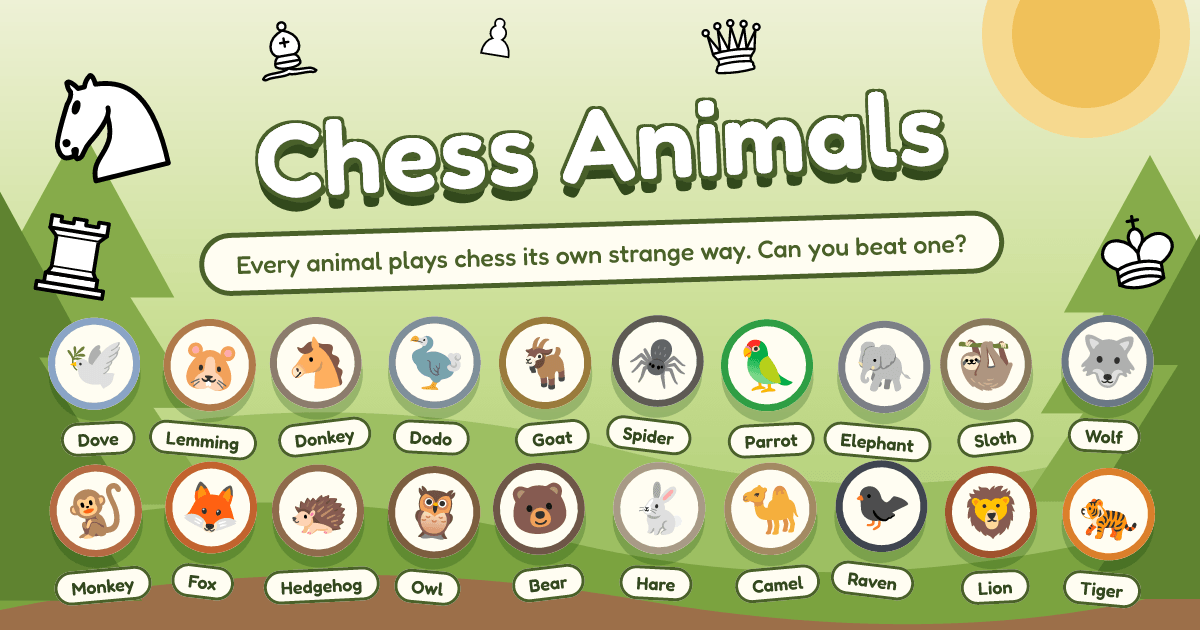
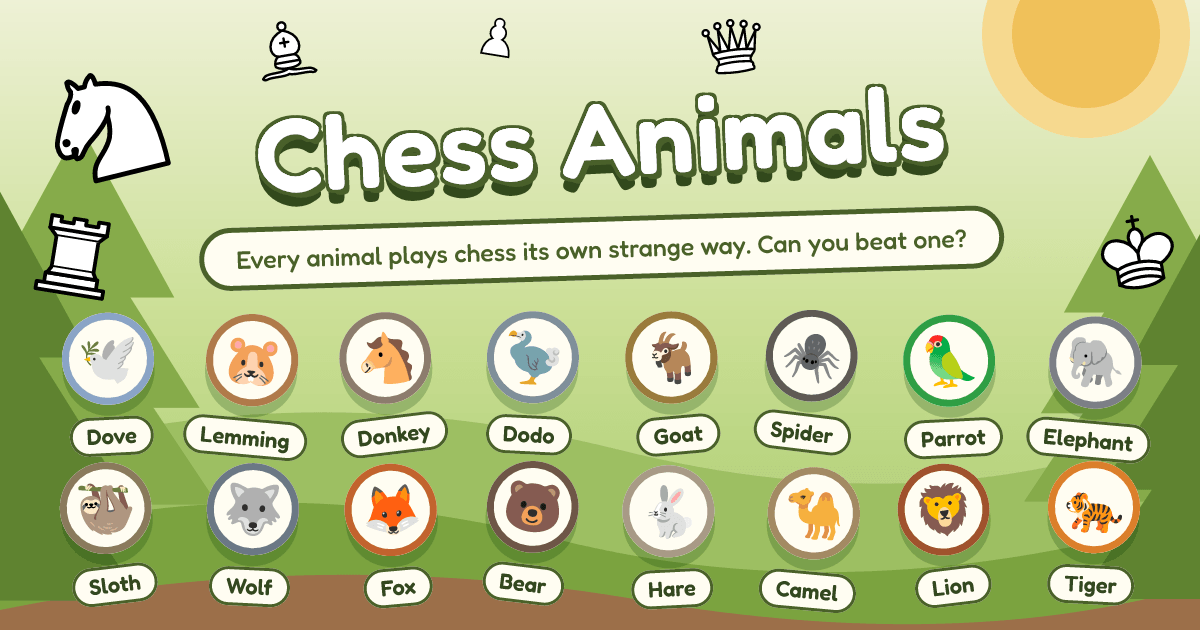
roster: drop the monkey, owl, raven and hedgehog

diff --git a/src/modules/bots/roster/index.ts b/src/modules/bots/roster/index.ts
@@ -13,15 +13,11 @@ import { GHOST } from "./ghost";
 import { GOAT } from "./goat";
 import { GOBLIN } from "./goblin";
 import { HARE } from "./hare";
-import { HEDGEHOG } from "./hedgehog";
 import { IMP } from "./imp";
 import { LEMMING } from "./lemming";
 import { LION } from "./lion";
-import { MONKEY } from "./monkey";
 import { OGRE } from "./ogre";
-import { OWL } from "./owl";
 import { PARROT } from "./parrot";
-import { RAVEN } from "./raven";
 import { ROBOT } from "./robot";
 import { SLOTH } from "./sloth";
 import { SPIDER } from "./spider";
@@ -41,37 +37,27 @@ import { ZOMBIE } from "./zombie";
 // enemy) lands just above the Donkey instead: a king in the open is real pressure. All three still
 // lose to every animal with an actual positional idea.
 //
-// The calibration animals read no personality feature — they are the scale, not filler. The
-// Donkey moves at random; the Monkey is plain material at depth 2, the Owl the same at depth 3.
-// Each ply is worth a landslide: the Owl beats the Monkey ~19-in-20 and finished ahead of every
-// one-feature animal, so a single heuristic at depth 2 does not buy what a ply does.
+// Every animal has an idea. Bare material with nothing written over it — the Monkey, the Owl and
+// the Raven, at three searches — rated respectably and played like nobody, so it left the roster
+// and lives on as the lab's baseline.
 //
-// The Raven is the calibration line's answer to "and what is seeing a trade through worth?" —
-// the Owl's depth 3 with `quiescence` on, no idea otherwise. It is the strongest bot on the
-// roster by a distance, beating the Hare ~9-in-10: on a material-only search the one blunder that
-// matters is grabbing a piece that is recaptured, and resolving the captures past the leaf is
-// worth more than a fourth ply or any pair of positional weights.
-//
-// The one-idea animals are a tour of the registry: the Fox closes your exits, the Hedgehog grabs
-// everything and hangs nothing, the Wolf charges the whole army at the enemy king, the Sloth pulls
-// it all home, the Elephant keeps to its own colour, the Parrot mirrors the board, the Spider gives
+// The one-idea animals are a tour of the registry: the Fox closes your exits and hangs nothing, the
+// Wolf charges the whole army at the enemy king, the Sloth pulls it all home, the Elephant keeps to its own colour, the Parrot mirrors the board, the Spider gives
 // every piece the most squares it can reach — at depth 1, a ply short of the rest, which is what
 // drops it below the Parrot — the Goat chases checks and captures, the Dove refuses to fight at
 // all, the Lemming hands everything over, and the Dodo runs its king at yours.
 //
-// The depth-3 animals without quiescence sit above the plain Owl: the Bear (`huddle`)
-// digs a den, and the Hare (`offeredMaterial` + `mobility`) is never in reach, on pairs the lab
-// rated together — an idea and depth 3 beat one more ply with none, but not the Raven's quiescence.
+// The depth-3 animals without quiescence: the Bear (`huddle`) digs a den, and the Hare
+// (`offeredMaterial` + `mobility`) is never in reach, on pairs the lab rated together.
 //
 // The Camel is the one animal whose idea waits for the ending: its king and passed pawns count
-// for nothing until the pieces come off. On depth 2 with quiescence — a ply short of the Raven —
-// it lands between the Hare and the Raven.
+// for nothing until the pieces come off. On depth 2 with quiescence it lands between the Hare and
+// the Lion.
 //
-// The Tiger is the exception: depth 3, quiescence on *and* a board-control pair (`swarm` +
-// `mobility`). Once every bot has quiescence, bare material has no idea what a good square is —
-// the full-roster arena puts the Tiger top by a distance, beating the Raven ~7-in-8.
-// The Lion is the Raven's search with `kingDanger` + `development` — it develops, then aims at your
-// king, and keeps its queen home until then — and lands near the middle of the gap between the two.
+// The top two resolve every capture chain past the leaf, at depth 3 — worth more than a fourth ply
+// or any pair of positional weights. The Tiger adds a board-control pair (`swarm` + `mobility`)
+// and tops the roster by a distance; the Lion adds `kingDanger` + `development` — it develops,
+// then aims at your king, and keeps its queen home until then — and lands just below.
 export const ROSTER: Animal[] = [
 	DOVE,
 	LEMMING,
@@ -83,14 +69,10 @@ export const ROSTER: Animal[] = [
 	ELEPHANT,
 	SLOTH,
 	WOLF,
-	MONKEY,
 	FOX,
-	HEDGEHOG,
-	OWL,
 	BEAR,
 	HARE,
 	CAMEL,
-	RAVEN,
 	LION,
 	TIGER,
 ];

diff --git a/src/modules/bots/roster/lion.ts b/src/modules/bots/roster/lion.ts
@@ -1,24 +1,24 @@
 import type { Animal } from "./types";
 
-// The Raven's search with two ideas: `kingDanger` at -40, which reads what attacks the squares
+// Depth 3 with quiescence, and two ideas: `kingDanger` at -40, which reads what attacks the squares
 // around each king, ours minus theirs, and `development`, which gets the minor pieces off the back
 // rank. One negative weight keeps its own king's ring quiet and piles onto yours; developing first
 // is what hands it pieces that can reach your ring at all.
 //
-// `kingDanger` alone sat barely above the Raven (+19 to +100 across runs). Adding `development`
-// put it ~+110 on top and near the middle of the Raven-to-Tiger gap. `centerControl` as a
+// `kingDanger` alone sat barely above bare material on that search (+19 to +100 across runs). Adding `development`
+// put it ~+110 on top and near the middle of the gap below the Tiger. `centerControl` as a
 // third weight measured inside the noise. Most of the gain is `development` — the same weight
 // with `centerControl` and no `kingDanger` rated level — but the Lion keeps the king idea as the
 // thing it is.
 //
 // `earlyQueen` at -80 is manners, not strength: `kingDanger` pulls the queen at your king ring
 // before the minors are out, and this makes it wait. It rated level either way; over twenty
-// openings against the Owl it cut queen moves made with two minors still home from 34 to 10. At
+// openings against bare material at depth 3 it cut queen moves made with two minors still home from 34 to 10. At
 // -40 the pull still won most of the time, and -150 started to cost rating.
 //
 // `huddle` 20 is the den underneath the hunt: LAB.md's open lead was that no animal on
 // quiescence read it, and a narrow field against the old weights had it ahead twice running,
-// within noise both times — the Raven-to-Tiger gap was flat before this, so a nudge that never
+// within noise both times — the gap below the Tiger was flat before this, so a nudge that never
 // lost is worth keeping.
 //
 // `centerControl` 30 came later, no other animal reads it: holding the middle is what a king hunt

diff --git a/src/locales/ru/bots.ts b/src/locales/ru/bots.ts
@@ -31,18 +31,10 @@ export default {
 		name: "Слон",
 		description: "Ходит только по клеткам своего цвета. Каждая фигура, каждый ход.",
 	},
-	owl: {
-		name: "Сова",
-		description: "Смотрит далеко вперед — а потом просто делает самый разумный ход.",
-	},
 	camel: {
 		name: "Верблюд",
 		description:
 			"Выводит все фигуры и ждет. Когда доска пустеет, король и пешки отправляются в путь.",
-	},
-	raven: {
-		name: "Ворон",
-		description: "Ждет, пока драка кончится, и берет только то, что достается даром.",
 	},
 	hare: {
 		name: "Заяц",
@@ -61,10 +53,6 @@ export default {
 		name: "Тигр",
 		description: "Каждой фигуре дает простор для хода. А потом все идут на короля.",
 	},
-	monkey: {
-		name: "Обезьяна",
-		description: "Знает, сколько стоит каждая фигура, и хватает самую ценную. Без хитростей.",
-	},
 	wolf: {
 		name: "Волк",
 		description: "Вся стая разом бежит на твоего короля. И не считает, кто упадет по дороге.",
@@ -73,11 +61,6 @@ export default {
 		name: "Лиса",
 		description:
 			"Закрывает каждую дверку, куда могут убежать твои фигуры. А свои одни не оставляет.",
-	},
-	hedgehog: {
-		name: "Еж",
-		description:
-			"Хватает самое ценное, что увидит. И ни одну свою фигуру не оставит без защиты.",
 	},
 	spider: {
 		name: "Паук",

diff --git a/cli/lab.ts b/cli/lab.ts
@@ -1,7 +1,7 @@
 import type { BotDefinition } from "@/shared/bots";
 
 // The staging area for candidate animals. `npm run arena -- --lab` rates everything here
-// alongside the roster, so a new idea gets a number against the Hedgehog before it earns a name,
+// alongside the roster, so a new idea gets a number against the roster before it earns a name,
 // a locale entry and a place in `ROSTER`.
 //
 // Rules of the bench:
@@ -12,7 +12,7 @@ import type { BotDefinition } from "@/shared/bots";
 // So this list is empty between experiments, and never a second roster.
 //
 // What past experiments turned up is in `../LAB.md` — a broad-feature ranking, and why
-// `hanging` became the Hedgehog and `mobility` the Spider.
+// `hanging` became the Fox's partner and `mobility` the Spider.
 //
 // `lab("kingdanger", { kingDanger: -40 })` is the shape — id gets the `lab-` prefix, `material`
 // base and depth 2 unless the third argument says otherwise. `npm run arena -- --lab-only` rates
@@ -21,7 +21,7 @@ export function lab(id: string, weights: Record<string, number>, depth = 2): Bot
 	return { id: `lab-${id}`, search: { depth }, base: "material", weights };
 }
 
-// The Raven's shape — depth 3, quiescence on, `material` base — with a weight stack over the top,
+// The Lion's and the Tiger's search — depth 3, quiescence on, `material` base — with a weight stack over the top,
 // for experiments that need every candidate on the same search as the roster's strongest bots.
 // The `swarm`+`mobility`+`space` run that became the Tiger used this (see `../LAB.md`).
 export function labQ(id: string, weights: Record<string, number>): BotDefinition {

diff --git a/src/locales/en/bots.ts b/src/locales/en/bots.ts
@@ -31,18 +31,10 @@ export default {
 		name: "Elephant",
 		description: "Steps only on squares of its own color. Every piece, every single move.",
 	},
-	owl: {
-		name: "Owl",
-		description: "Looks a long way ahead — then just plays the most sensible move.",
-	},
 	camel: {
 		name: "Camel",
 		description:
 			"Gets every piece out, then waits. When the board empties, its king and pawns set off.",
-	},
-	raven: {
-		name: "Raven",
-		description: "Waits for the fight to end, then eats only what is really free.",
 	},
 	hare: {
 		name: "Hare",
@@ -61,10 +53,6 @@ export default {
 		name: "Tiger",
 		description: "Gives every piece room to move. Then they all head for your king.",
 	},
-	monkey: {
-		name: "Monkey",
-		description: "Knows what every piece is worth and grabs the best one. No tricks.",
-	},
 	wolf: {
 		name: "Wolf",
 		description: "The whole pack runs at your king at once. It never counts who falls.",
@@ -73,10 +61,6 @@ export default {
 		name: "Fox",
 		description:
 			"Shuts every door your pieces could run through. Its own never get caught alone.",
-	},
-	hedgehog: {
-		name: "Hedgehog",
-		description: "Grabs the best thing it sees. Every piece it has keeps a friend close by.",
 	},
 	spider: {
 		name: "Spider",

diff --git a/src/modules/game/__tests__/usePlayers.test.ts b/src/modules/game/__tests__/usePlayers.test.ts
@@ -14,7 +14,7 @@ vi.mock("vue-router", async () => {
 	return { useRoute: () => route, useRouter: () => router };
 });
 
-const DEFAULTS = { white: "human", black: "monkey" };
+const DEFAULTS = { white: "human", black: "donkey" };
 
 // The route is shared, so a watcher left over from one test would react to the next one's URL.
 const scopes: ReturnType<typeof effectScope>[] = [];
@@ -65,20 +65,20 @@ describe("usePlayers", () => {
 	it("leaves a color alone when the URL no longer names it", async () => {
 		const { players, route } = setup({ white: "wolf", black: "donkey" });
 
-		route.query = { black: "monkey" };
+		route.query = { black: "goat" };
 		await nextTick();
 
-		expect(players.value).toEqual({ white: "wolf", black: "monkey" });
+		expect(players.value).toEqual({ white: "wolf", black: "goat" });
 	});
 
 	it("writes the picker's choice back into the URL", async () => {
 		const { players, replace, route } = setup();
 
-		players.value.black = "donkey";
+		players.value.black = "wolf";
 		await nextTick();
 
 		expect(replace).toHaveBeenCalledWith({
-			query: { ...route.query, white: undefined, black: "donkey" },
+			query: { ...route.query, white: undefined, black: "wolf" },
 		});
 	});
 

diff --git a/src/modules/bots/roster/spider.ts b/src/modules/bots/roster/spider.ts
@@ -1,6 +1,6 @@
 import type { Animal } from "./types";
 
-// The Monkey plus one instinct: give every piece as many squares as it can have. `mobility` is
+// Bare material plus one instinct: give every piece as many squares as it can have. `mobility` is
 // our reachable squares minus theirs — pawns and the king aside — so a positive weight pays the
 // Spider to develop onto open lines, keep its pieces untangled and deny the same to the
 // opponent, all without ever declining a real capture the material base wants.
@@ -10,7 +10,7 @@ import type { Animal } from "./types";
 // weight on a deeper search.
 //
 // Depth 1: a greedy one-move look, the only material animal that never sees a reply. At depth 2 it
-// sat in a knot with the Hedgehog that no weight untied; a ply down it fills the hole between the
+// sat in a knot with a `hanging` animal that no weight untied; a ply down it fills the hole between the
 // Goat and the Parrot instead — the one-idea animals' floor.
 export const SPIDER: Animal = {
 	emoji: "🕷",

diff --git a/src/locales/ru/about.ts b/src/locales/ru/about.ts
@@ -6,7 +6,7 @@ export default {
 		body: "Все боты работают на одном движке. Ход оценивается как скалярное произведение вектора признаков позиции и вектора весов, своего у каждого бота.",
 		listLead: "Характер бота задают его веса:",
 		wolf: "Волк идет напролом к вражескому королю.",
-		monkey: "Обезьяна хватает любое доступное взятие.",
+		goat: "Козел гонится за шахами, потом за взятиями и никогда не считает цену.",
 		donkey: "Осел оставляет все веса на нуле и ходит наугад.",
 	},
 	paper: {

diff --git a/src/shared/bots/bases.ts b/src/shared/bots/bases.ts
@@ -1,8 +1,8 @@
 // The starting points a bot can be written on top of.
 //
 // Without these, every animal repeated the same seven lines to say "and it knows what a rook is
-// worth", and the one line that was actually the animal got lost among them. The Hedgehog is
-// greed with one instinct; that is what its file should say, and now it does.
+// worth", and the one line that was actually the animal got lost among them. The Fox is
+// greed with two instincts; that is what its file should say, and now it does.
 //
 // A base is **frozen literal numbers**, never derived from the registry's `defaultWeight`. That
 // is the whole point: `defaultWeight` is a suggestion the registry is free to retune, and if a

diff --git a/src/modules/bots/roster/fox.ts b/src/modules/bots/roster/fox.ts
@@ -2,8 +2,7 @@ import type { Animal } from "./types";
 
 // The trapper: prices every square it takes from you and closes the exits one by one, while
 // never leaving a piece of its own attacked and undefended. `opponentMobility` is its own — no
-// other animal reads it; `hanging` is the Hedgehog's lead, borrowed as the partner that keeps the
-// hunt from costing material.
+// other animal reads it; `hanging` is the partner that keeps the hunt from costing material.
 //
 // `opponentMobility` alone barely beats bare material at depth 2 (+26): taking squares away is
 // only worth it when the pieces doing it are safe. `hanging` −50 is what lifts it — `centerControl`

diff --git a/src/modules/frankenstein/__tests__/presets.test.ts b/src/modules/frankenstein/__tests__/presets.test.ts
@@ -20,7 +20,7 @@ describe("blankPreset", () => {
 
 describe("presetFromBot", () => {
 	it("carries an animal's weights and its own search depth", () => {
-		const preset = presetFromBot("hedgehog");
+		const preset = presetFromBot("fox");
 
 		expect(preset).toMatchObject({ depth: 2, quiescence: false });
 		expect(preset?.weights.hanging).toBe(-50);
@@ -28,7 +28,7 @@ describe("presetFromBot", () => {
 	});
 
 	it("fills in zero for every feature the animal does not name", () => {
-		const preset = presetFromBot("hedgehog");
+		const preset = presetFromBot("fox");
 
 		expect(preset?.weights.centralization).toBe(0);
 	});

diff --git a/src/shared/scheduler/tournamentSpecs.ts b/src/shared/scheduler/tournamentSpecs.ts
@@ -32,7 +32,7 @@ function pairWeight(a: string, b: string, context: SpecContext): number {
 // The slice of the opening set this pair plays on this visit: a window that starts at a per-pair
 // seeded offset (so two pairs don't sample the same lines) and advances one window per revisit.
 // Cheap pairs play the full `openingsPerVisit`; an expensive pair plays a fraction of it and is
-// revisited more instead, so a Raven/Tiger game is never played just to widen a window.
+// revisited more instead, so a Lion/Tiger game is never played just to widen a window.
 function visitWindow(
 	a: string,
 	b: string,
